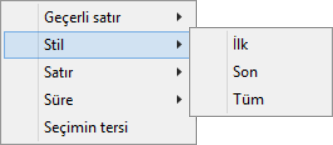
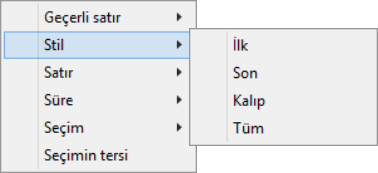
1.5.5

diff --git a/README.md b/README.md
@@ -181,6 +181,7 @@ Birçok ayarda satır seçme işlemi yapar.
 * **Stil:** O an bulunduğunuz, metin kutusunda içeriğini gördüğünüz satırın stiline göre işlem yaparsınız.
   * **İlk:** Stilin ilk satırına atlarsınız.
   * **Son:** Stilin son satırına atlarsınız.
+  * **Kalıp:** Geçerli satırın sonrasındaki satırların ve ondan öncesindeki satırların stili geçerli satırınkiyle farklı olana kadar seçim yapar.
   * **Tüm:** Stilin tüm satırlarını seçersiniz.
 * **Satır:** Satırlara göre işlem yaparsınız.
   * **İlk:** İlk satıra atlarsınız.
